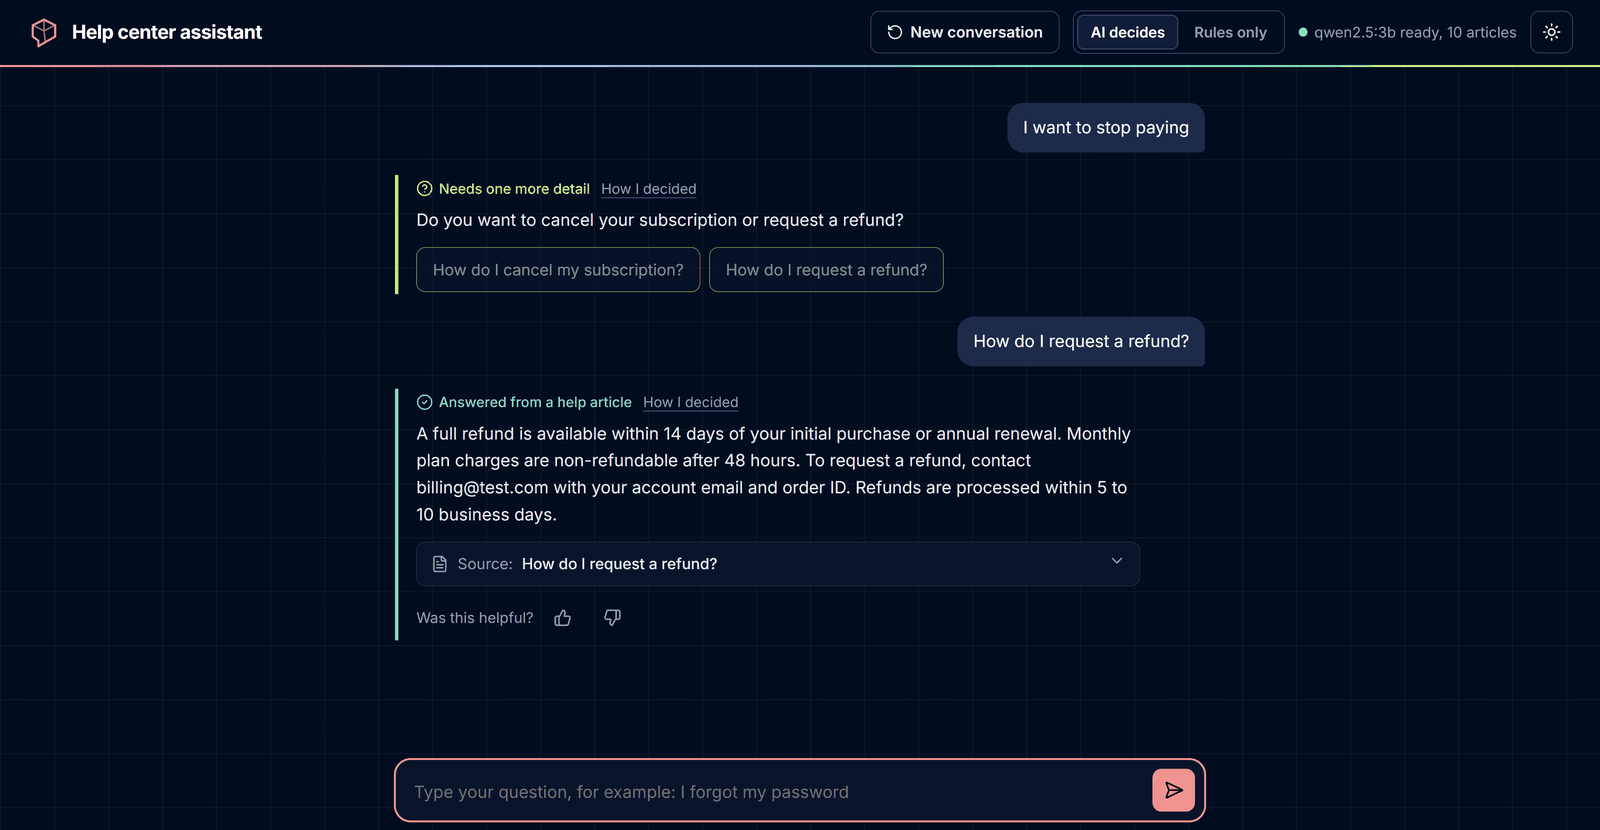
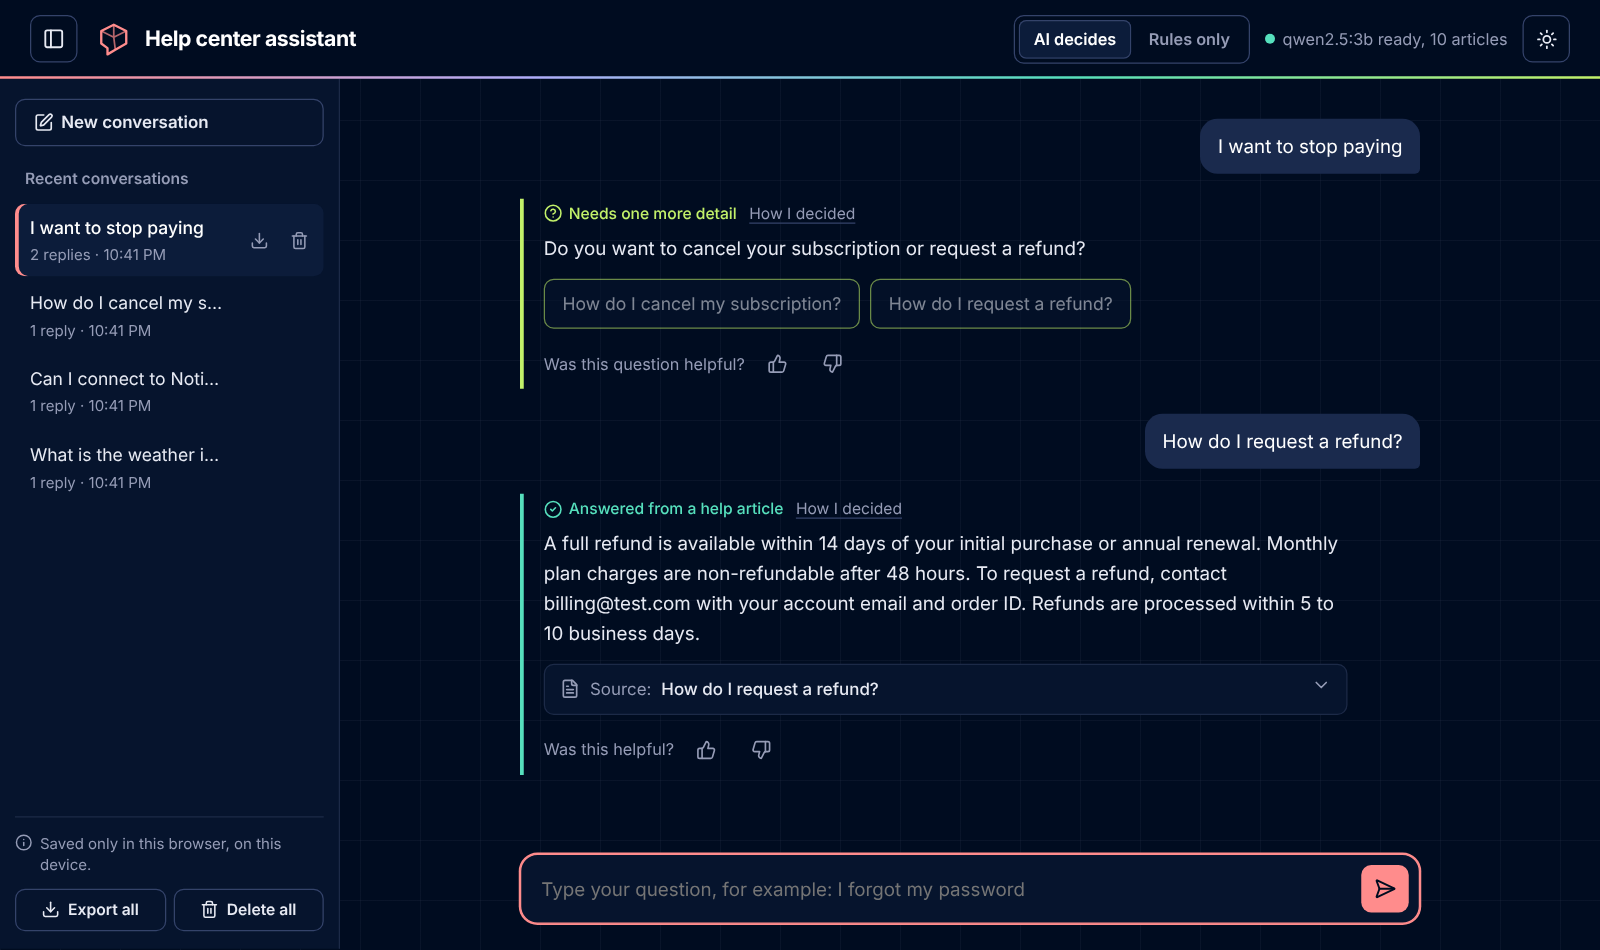
Update screenshots for the new chat page

diff --git a/README.md b/README.md
@@ -31,7 +31,7 @@ Everything runs locally: a small LLM in Ollama (`qwen2.5:3b`), embeddings with `
 
 ![Decision trace panel](docs/images/how-i-decided.png)
 
-More examples: [PayPal is not mentioned](docs/images/not-mentioned.png), [weather question declined](docs/images/decline.png).
+More examples: [Notion is not mentioned](docs/images/not-mentioned.png), [weather question declined](docs/images/decline.png).
 
 ---
 
